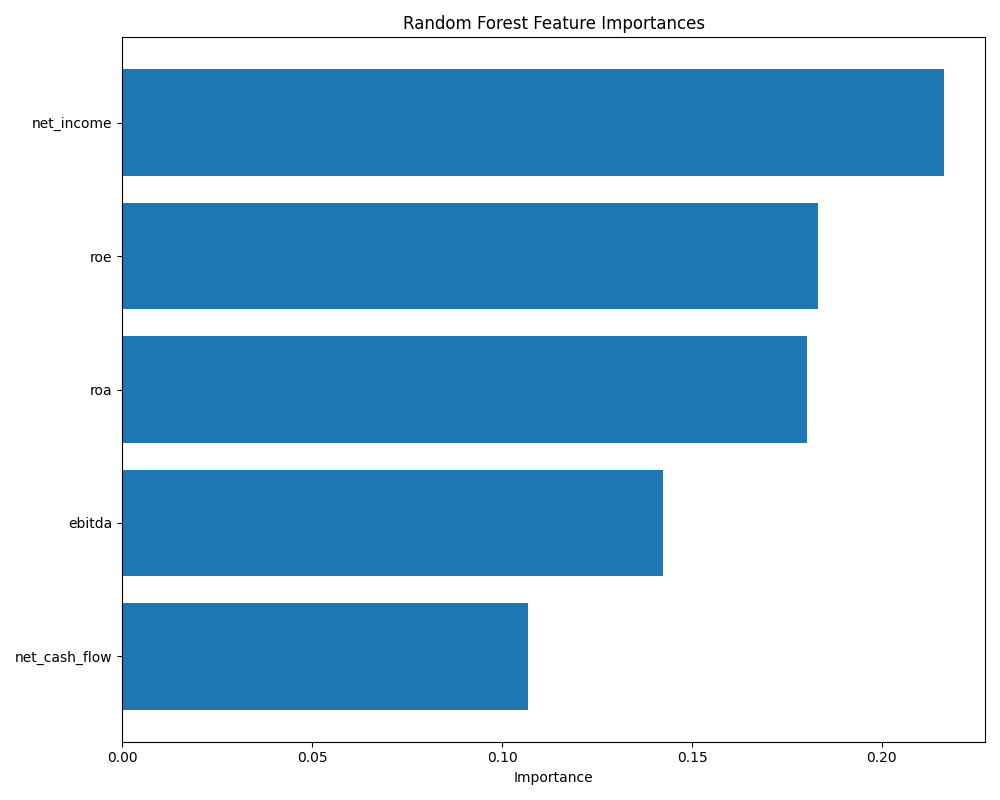
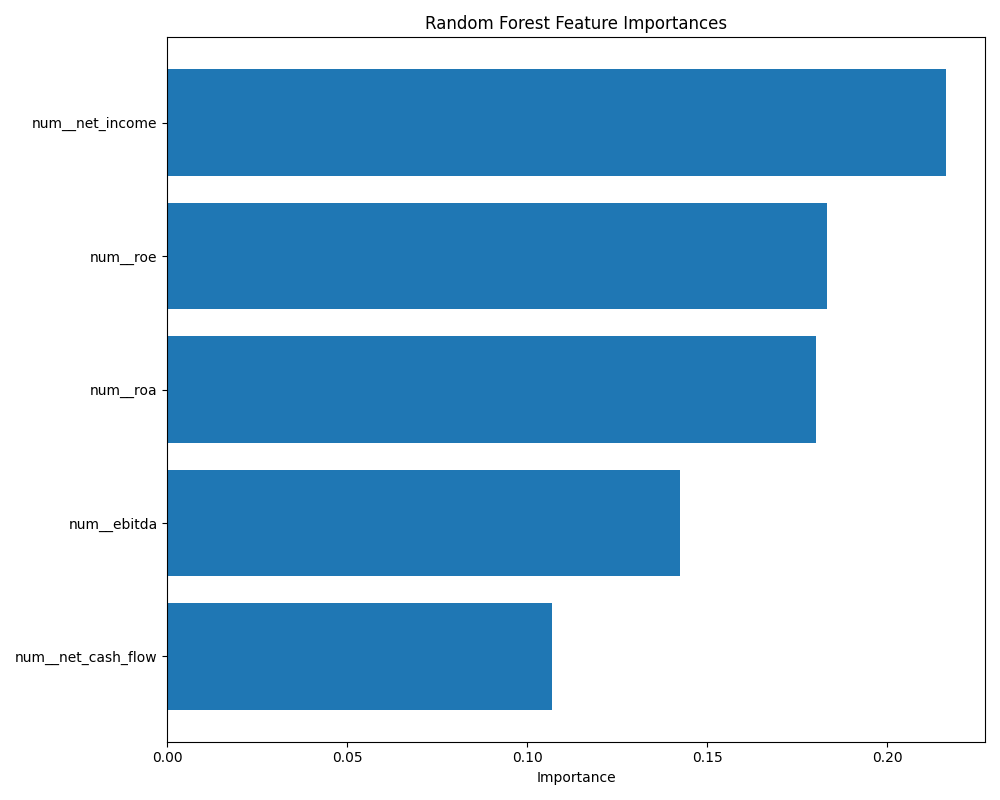
update feature_importance

diff --git a/src/feature-importance.py b/src/feature-importance.py
@@ -10,7 +10,8 @@ path_output = "../reports"
 os.makedirs(path_output, exist_ok=True)
 
 # --- feature names ---
-feature_names = pipeline.named_steps["preprocessing"].get_feature_names_out()
+raw_names = pipeline.named_steps["preprocessing"].get_feature_names_out()
+feature_names = [n.split("__")[1] for n in raw_names]
 
 # --- feature importance --- 
 importances = pipeline.named_steps["rf"].feature_importances_
@@ -22,14 +23,16 @@ feature_importances_df = pd.DataFrame({
 
 
 # --- plot ---
+plt.style.use("dark_background")
 plt.figure(figsize=(10, 8))
+
 top_features = feature_importances_df.head(5)
 
-plt.barh(top_features["Feature"], top_features["Importance"])
+plt.barh(top_features["Feature"], top_features["Importance"], color="skyblue")
 plt.gca().invert_yaxis()
 plt.xlabel("Importance")
 plt.title("Random Forest Feature Importances")
-plt.style.use("dark_background")
+
 plt.tight_layout()
 
 path_plot = os.path.join(path_output, "feature_importance.png")
